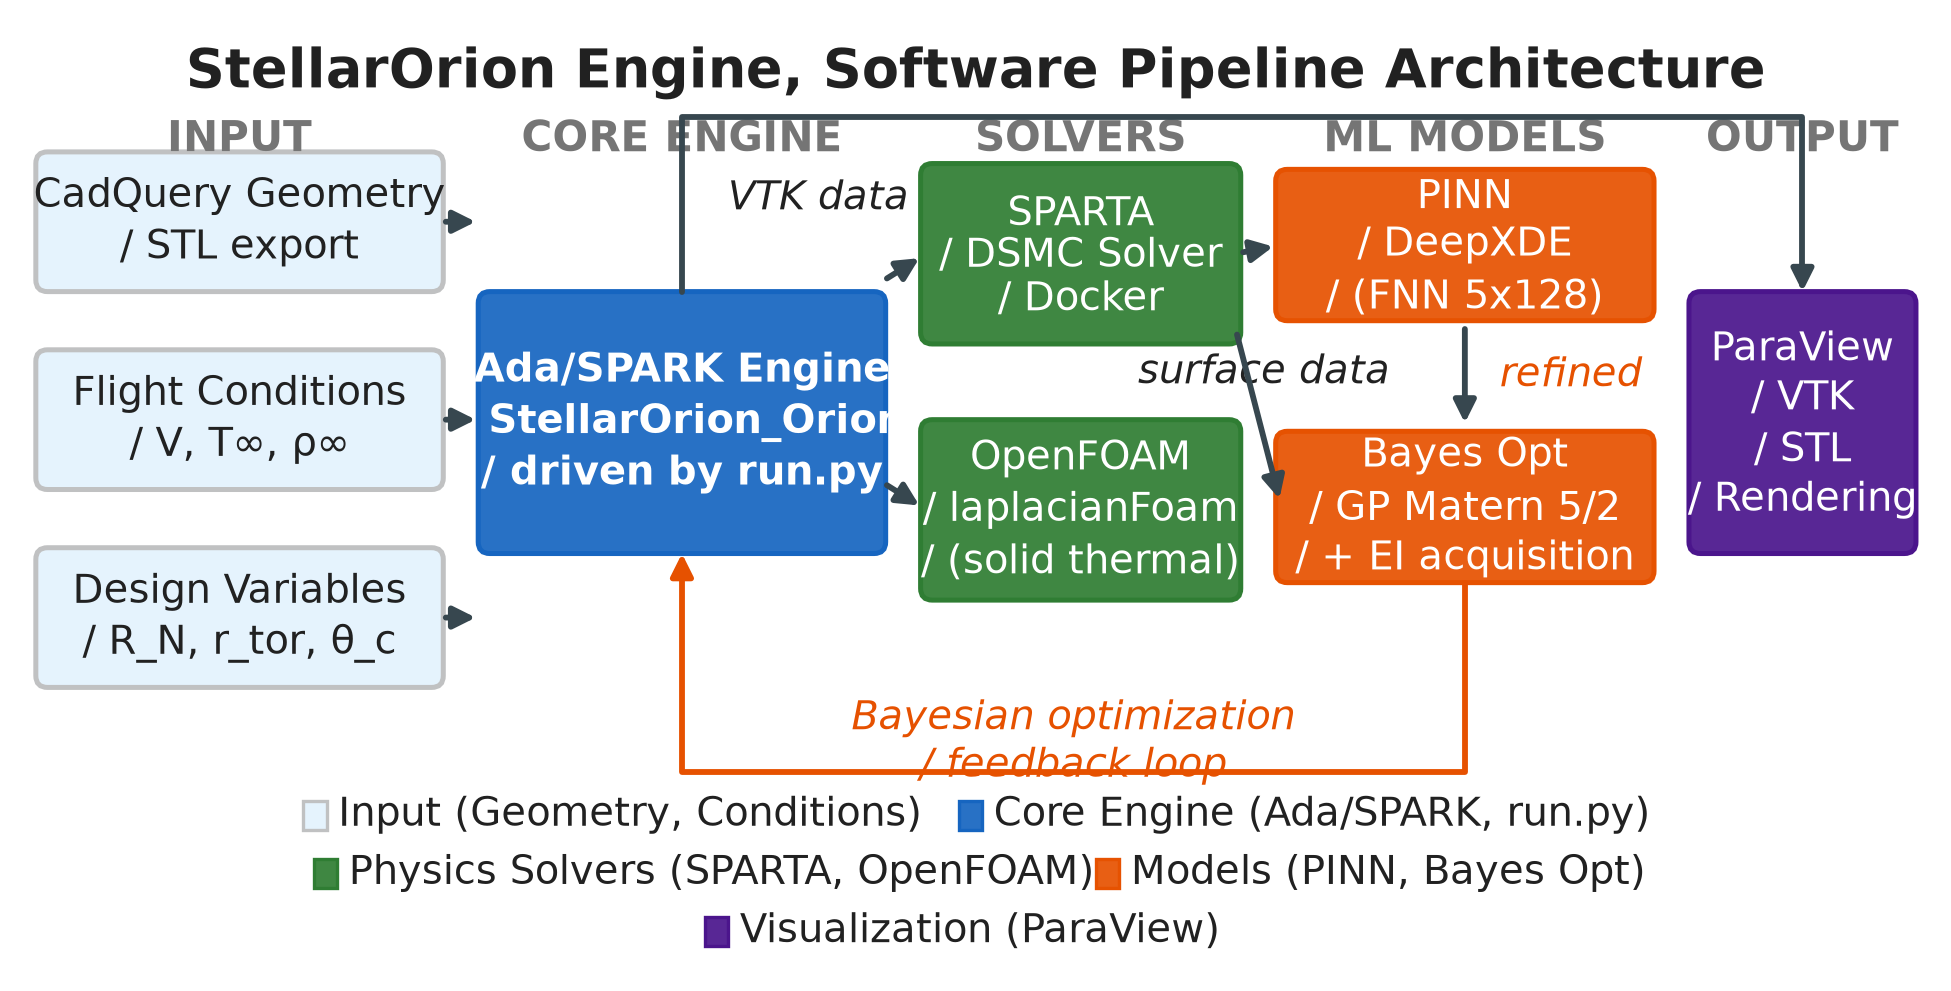
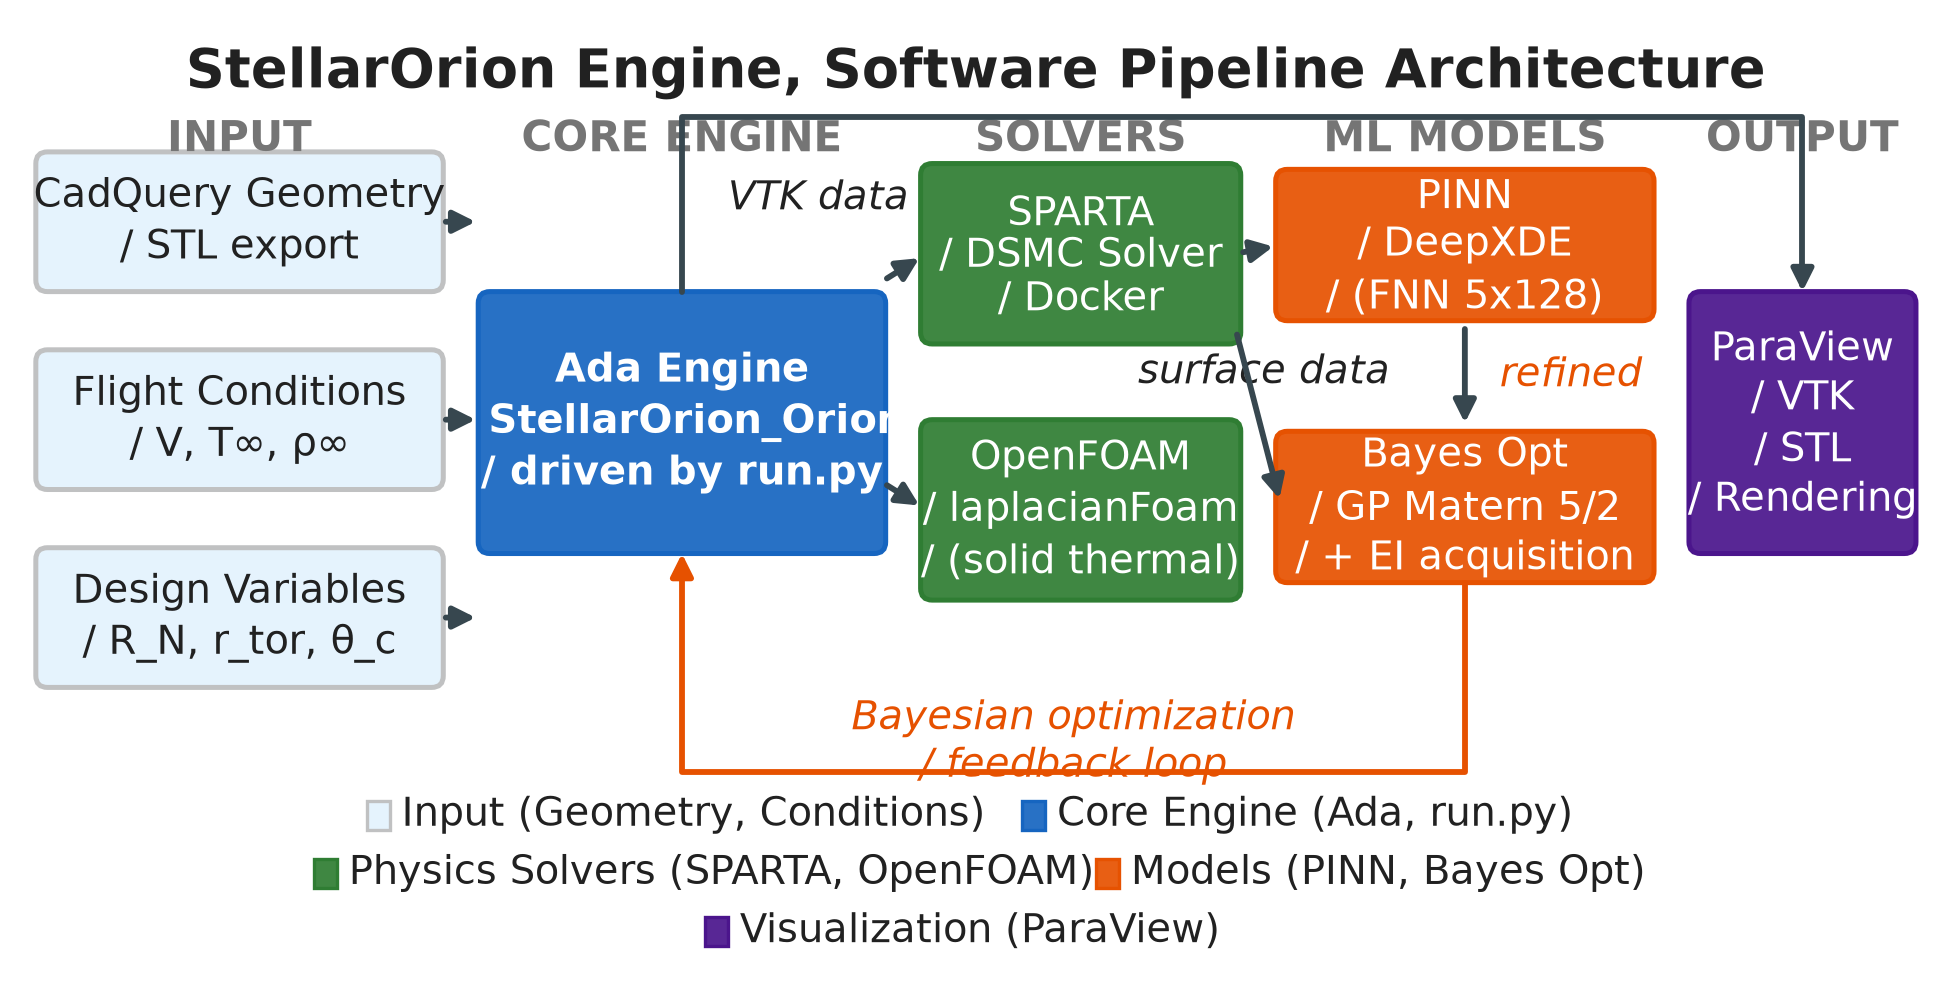
fix(thesis): scrub SPARK mentions and all '--' renderings; sync comparison figure after pixel audits
- ch3: Ada/SPARK -> Ada in build/unit/simulation-engine captions + ActualText; 'steps 1--3' -> 'steps 1 to 3'
- preamble: comment '--' removed
- ch1/ch3/ch4/appendix: CLI flags no longer render literal '--' (option names kept: slice-angle, fnum, doe, validate-only, headless validate parameter list, self-test..validationPINN)
- figures: make_software_pipeline.py + make_methodology_derivation.py relabel 'Ada/SPARK' -> 'Ada'; regenerated
- figures/optimization_comparison.png: figure-level flown legend in blank band, single x-tick per panel, z-stack clear (3 specialist pixel audits: PASS)
- PDF verified: 165 pp, '--'=0, SPARK=0, GNATprove=0, VERDICT CLEAN

Changed region(s): [[0.1538, 0.7871, 0.8611, 0.8476], [0.246, 0.333, 0.4613, 0.3935]]

diff --git a/Lost+Found/ProgressReport/CurrentThesisFinalReport/chapter_03_methodology.tex b/Lost+Found/ProgressReport/CurrentThesisFinalReport/chapter_03_methodology.tex
@@ -88,14 +88,14 @@ Figure~\ref{fig:governing_equations} summarizes this chain.
 
 \subsection{Software Pipeline}
 \label{sec:software_pipeline}
-The StellarOrion engine orchestrates the pipeline in Figure~\ref{fig:software_pipeline}. The Python entry point \texttt{run.py} drives five phases: boot, Python virtual-environment bootstrap, static analysis, Ada/SPARK build of the simulation engine, and launch. The core solver is the Ada/SPARK unit \texttt{StellarOrion\_Orion} in \texttt{src/simulation\_engine/}, which couples the SPARTA DSMC solver and OpenFOAM (Open Source Field Operation and Manipulation) solid-thermal solver, then hands surface fields to the DeepXDE PINN refinement module and to the scikit-learn Bayesian Optimization surrogate (GP Mat\'ern 5/2 with Expected Improvement, Sec.~\ref{sec:ga_opt}). Results are exported as VTK/STL for ParaView rendering and for the validation gate of Chapter~\ref{ch:results}. The recorded campaign of Chapter~\ref{ch:results} applies Bayesian Optimization with a fixed hyper-parameter refit strategy, adopted after the reproducibility finding of Sec.~\ref{sec:surrogate_repro}.
+The StellarOrion engine orchestrates the pipeline in Figure~\ref{fig:software_pipeline}. The Python entry point \texttt{run.py} drives five phases: boot, Python virtual-environment bootstrap, static analysis, Ada build of the simulation engine, and launch. The core solver is the Ada unit \texttt{StellarOrion\_Orion} in \texttt{src/simulation\_engine/}, which couples the SPARTA DSMC solver and OpenFOAM (Open Source Field Operation and Manipulation) solid-thermal solver, then hands surface fields to the DeepXDE PINN refinement module and to the scikit-learn Bayesian Optimization surrogate (GP Mat\'ern 5/2 with Expected Improvement, Sec.~\ref{sec:ga_opt}). Results are exported as VTK/STL for ParaView rendering and for the validation gate of Chapter~\ref{ch:results}. The recorded campaign of Chapter~\ref{ch:results} applies Bayesian Optimization with a fixed hyper-parameter refit strategy, adopted after the reproducibility finding of Sec.~\ref{sec:surrogate_repro}.
 
 \begin{figure}[!htbp]
     \centering
-    \BeginAccSupp{method=escape,ActualText={Architecture diagram of the software pipeline. Input column: CadQuery geometry with STL export, flight conditions with velocity, temperature and density, and design variables. Orchestration column: run.py with boot, environment bootstrap, static analysis, Ada/SPARK build and launch phases. Core engine column: the Ada/SPARK simulation engine. Solver column: SPARTA DSMC in Docker and OpenFOAM solid thermal. Model column: PINN with DeepXDE and the Bayesian Optimization surrogate, a Gaussian Process with Matern 5/2 kernel and Expected Improvement. Output column: ParaView, VTK, STL rendering. An orange feedback loop returns Bayesian Optimization designs to the engine for re-evaluation.}}%
+    \BeginAccSupp{method=escape,ActualText={Architecture diagram of the software pipeline. Input column: CadQuery geometry with STL export, flight conditions with velocity, temperature and density, and design variables. Orchestration column: run.py with boot, environment bootstrap, static analysis, Ada build and launch phases. Core engine column: the Ada simulation engine. Solver column: SPARTA DSMC in Docker and OpenFOAM solid thermal. Model column: PINN with DeepXDE and the Bayesian Optimization surrogate, a Gaussian Process with Matern 5/2 kernel and Expected Improvement. Output column: ParaView, VTK, STL rendering. An orange feedback loop returns Bayesian Optimization designs to the engine for re-evaluation.}}%
 \includegraphics[width=\textwidth]{figures/software_pipeline.png}%
 \EndAccSupp{}%
-    \caption[StellarOrion engine software pipeline: input geometry, flight conditions and design variables $\rightarrow$ \texttt{run.py} orchestration phases $\rightarrow$ Ada/SPARK simulation engine $\rightarrow$ SPARTA DSMC and OpenFOAM solid-thermal solvers with PINN refinement and the Bayesian Optimization surrogate $\rightarrow$ ParaView visualization.]{StellarOrion engine software pipeline: input geometry, flight conditions and design variables $\rightarrow$ \texttt{run.py} orchestration phases $\rightarrow$ Ada/SPARK simulation engine $\rightarrow$ SPARTA DSMC and OpenFOAM solid-thermal solvers with PINN refinement and the Bayesian Optimization surrogate $\rightarrow$ ParaView visualization. The orange feedback loop returns Bayesian Optimization designs from the surrogate to the core engine for re-evaluation.}
+    \caption[StellarOrion engine software pipeline: input geometry, flight conditions and design variables $\rightarrow$ \texttt{run.py} orchestration phases $\rightarrow$ Ada simulation engine $\rightarrow$ SPARTA DSMC and OpenFOAM solid-thermal solvers with PINN refinement and the Bayesian Optimization surrogate $\rightarrow$ ParaView visualization.]{StellarOrion engine software pipeline: input geometry, flight conditions and design variables $\rightarrow$ \texttt{run.py} orchestration phases $\rightarrow$ Ada simulation engine $\rightarrow$ SPARTA DSMC and OpenFOAM solid-thermal solvers with PINN refinement and the Bayesian Optimization surrogate $\rightarrow$ ParaView visualization. The orange feedback loop returns Bayesian Optimization designs from the surrogate to the core engine for re-evaluation.}
     \label{fig:software_pipeline}
 \end{figure}
 
@@ -254,7 +254,7 @@ Freestream conditions match the IRVE-3 reentry trajectory point at 51.8\,km alti
     \item \textbf{Freestream Velocity ($v_{\infty}$):} 3378\,m/s (Mach $\approx$ 10.29 at altitude)
     \item \textbf{Number Density ($n$):} $1.63 \times 10^{22}$\,m$^{-3}$ (from atmospheric density $\rho = 7.851 \times 10^{-4}$\,kg/m$^3$ via $n = \rho N_A / M_{air}$)
     \item \textbf{Freestream Temperature ($T_{\infty}$):} 268.41\,K (atmospheric model, code baseline)
-    \item \textbf{Particle Weighting Factor ($f_{num}$):} $1.5 \times 10^{20}$ (configurable via \texttt{-{}-fnum})
+    \item \textbf{Particle Weighting Factor ($f_{num}$):} $1.5 \times 10^{20}$ (configurable via the \texttt{fnum} option)
 \end{itemize}
 
 \subsubsection*{Gas Model}
@@ -771,7 +771,7 @@ The optimization loop runs six steps:
     \item \textbf{Final Validation:} Re-evaluate the optimal design with SPARTA DSMC, without PINN refinement.
 \end{enumerate}
 
-The engine additionally implements a real-coded Genetic Algorithm (Sec.~\ref{sec:ga_operators}) that evolves a population using the same GP surrogate as fast evaluator. The GA shares steps 1--3, 5 and 6 with the Bayesian loop and replaces step 4 with selection, crossover and mutation.
+The engine additionally implements a real-coded Genetic Algorithm (Sec.~\ref{sec:ga_operators}) that evolves a population using the same GP surrogate as fast evaluator. The GA shares steps 1 to 3, 5 and 6 with the Bayesian loop and replaces step 4 with selection, crossover and mutation.
 
 \subsection{Design Space and Parameters}
 
@@ -805,7 +805,7 @@ where $i$ is the stratum index, $j$ the parameter dimension, $r_{i,j} \sim \math
 Each parameter gets $N$ distinct levels with one sample per level, giving space-filling coverage for small $N$.
 
 \subsubsection*{Central Composite Design (CCD) as Alternative DoE}
-The default Design of Experiments method is the Rotatable Central Composite Design (CCD) described in~\cite{Montgomery2017}, with axial distance $\alpha = (2^d)^{1/4}$ ($\alpha \approx 1.682$ at $d = 3$). For a $d$-dimensional parameter space, CCD constructs $N = 2^d + 2d + 1$ sample points: $2^d$ factorial (corner) points at $\pm 1$ levels, $2d$ axial (star) points at $\pm \alpha$ along each axis, and $1$ center point at the origin. This campaign used $d = 3$ variables (nose radius $R_N$, toroid radius $r_{tor}$, half-cone angle $\theta_c$), giving $N = 8 + 6 + 1 = 15$ points. That 15-point CCD record is separate from the 70-entry Bayesian Optimization history of Sec.~\ref{sec:bo_results}. LHS or CCD is selectable via \texttt{-{}-doe}, with CCD as the default for the optimized IRVE-3 baseline.
+The default Design of Experiments method is the Rotatable Central Composite Design (CCD) described in~\cite{Montgomery2017}, with axial distance $\alpha = (2^d)^{1/4}$ ($\alpha \approx 1.682$ at $d = 3$). For a $d$-dimensional parameter space, CCD constructs $N = 2^d + 2d + 1$ sample points: $2^d$ factorial (corner) points at $\pm 1$ levels, $2d$ axial (star) points at $\pm \alpha$ along each axis, and $1$ center point at the origin. This campaign used $d = 3$ variables (nose radius $R_N$, toroid radius $r_{tor}$, half-cone angle $\theta_c$), giving $N = 8 + 6 + 1 = 15$ points. That 15-point CCD record is separate from the 70-entry Bayesian Optimization history of Sec.~\ref{sec:bo_results}. LHS or CCD is selectable via the \texttt{doe} option, with CCD as the default for the optimized IRVE-3 baseline.
 
 \subsection{Bayesian Optimization (Bayes Opt)}
 

diff --git a/Lost+Found/ProgressReport/CurrentThesisFinalReport/chapter_04_results.tex b/Lost+Found/ProgressReport/CurrentThesisFinalReport/chapter_04_results.tex
@@ -395,8 +395,8 @@ The surrogate $J(\mathbf{x})$, built on closed-form correlations, cannot represe
 \subsection{Gate Protocol}
 The gate runs post-optimization in five legs~\cite{kennedy2000multi}:
 \begin{enumerate}
-    \item \textbf{Preconditions and geometry QA.} The compiled binary, Docker daemon, validation virtual environment, pipeline module and reference CSV are checked, then a fast \texttt{\seqsplit{bin/main -{}-validate-only}} geometry check (seconds-level runtime) runs. Failures report path and remedy; the gate exits with status 1.
-    \item \textbf{DSMC leg.} The round-1 winner is re-simulated with \texttt{\seqsplit{bin/main -{}-validate -{}-headless -{}-nose 2.989050 -{}-tradius 0.103301 -{}-angle 40.483513 -{}-skin scalloped -{}-steps 2200}}, writing to a dedicated directory, never overwriting the baseline reference dataset.
+    \item \textbf{Preconditions and geometry QA.} The compiled binary, Docker daemon, validation virtual environment, pipeline module and reference CSV are checked, then a fast \texttt{bin/main} validate-only geometry check (seconds-level runtime) runs. Failures report path and remedy; the gate exits with status 1.
+    \item \textbf{DSMC leg.} The round-1 winner is re-simulated with \texttt{bin/main} in headless validate mode (nose radius 2.989050, toroid radius 0.103301, half-cone angle 40.483513, skin scalloped, 2200 steps), writing to a dedicated directory, never overwriting the baseline reference dataset.
     \item \textbf{PINN leg.} The PINN refinement pipeline runs on the fresh dataset, producing a unified comparison dataset under the gate directory.
     \item \textbf{Verdict.} The gate passes if and only if $q_{hybrid} \leq Q_{target} = 165.716$\,J/cm$^2$, and records the prediction error $(q_{hybrid} - q_{analytic})/q_{analytic}$.
     \item \textbf{Multi-fidelity correction.} A bounded correction factor $c = \operatorname{clamp}\bigl(q_{hybrid}/\allowbreak q_{analytic},\,\allowbreak 0.5,\,\allowbreak 2.0\bigr)$ applies to the heat-load term of $J(\mathbf{x})$; the optimizer re-runs, producing the round-2 design.

diff --git a/Lost+Found/ProgressReport/CurrentThesisFinalReport/chapter_01_introduction.tex b/Lost+Found/ProgressReport/CurrentThesisFinalReport/chapter_01_introduction.tex
@@ -89,7 +89,7 @@ This research provides aerothermal analysis and survivability optimization of th
 \begin{enumerate}
     \item \textbf{Geometric Representation:} The HIAD structure uses parametric 3D CAD generation via CadQuery. The 6-toroid stack based on the multidisciplinary design analysis and optimization (MDAO) baseline~\cite{rapisarda2023mdao} is the primary geometry, with variable toroid count, cone angle, and nose radius. The ``scalloped'' toroidal surface is treated as rigid and fully inflated to isolate surface-topology effects on the flow.
 
-    \item \textbf{Dimensionality:} Simulations are 2D axisymmetric (via \texttt{-{}-slice-angle}) or full 3D. The 2D mode assumes zero angle of attack ($\alpha = 0^\circ$) to maintain rotational symmetry and raise particle resolution within memory limits; full 3D covers off-axis conditions.
+    \item \textbf{Dimensionality:} Simulations are 2D axisymmetric (via the \texttt{slice-angle} option) or full 3D. The 2D mode assumes zero angle of attack ($\alpha = 0^\circ$) to maintain rotational symmetry and raise particle resolution within memory limits; full 3D covers off-axis conditions.
 
     \item \textbf{Numerical Framework:} Gas dynamics follow the Boltzmann equation, solved by the Direct Simulation Monte Carlo (DSMC) method in the SPARTA (Sandia Parallel Algorithm for Real-Time Application) solver~\cite{plimpton2014sparta}, valid for rarefied and transitional flows where the continuum assumption fails ($Kn > 0.01$).
 

diff --git a/Lost+Found/ProgressReport/CurrentThesisFinalReport/preamble.tex b/Lost+Found/ProgressReport/CurrentThesisFinalReport/preamble.tex
@@ -121,13 +121,13 @@
 \setlength{\dblfloatsep}{8pt plus 2pt minus 2pt}
 % Float packing fractions: LaTeX's defaults (\topfraction 0.7, \textfraction
 % 0.2, \floatpagefraction 0.5) eject a figure + its long caption onto a
-% dedicated FLOAT PAGE whenever the block exceeds 70% of the text height --
+% dedicated FLOAT PAGE whenever the block exceeds 70% of the text height: the
 % text can never share such a page, which is exactly the one-figure-per-page
 % pattern. Allowing floats up to 90% of the page, requiring only 10% prose
 % alongside them, and demanding 90% fill before a dedicated float page makes
 % figures share their page with the surrounding narrative instead.
 % NOTE: these four are MACROS (sizeNN.clo uses \renewcommand), NOT skip
-% registers -- \setlength on them typesets the old value as page-1 garbage
+% registers; \setlength on them typesets the old value as page-1 garbage
 % instead of assigning, so \renewcommand is the only correct interface.
 \renewcommand{\topfraction}{0.9}
 \renewcommand{\bottomfraction}{0.8}

diff --git a/Lost+Found/ProgressReport/CurrentThesisFinalReport/figures/make_methodology_derivation.py b/Lost+Found/ProgressReport/CurrentThesisFinalReport/figures/make_methodology_derivation.py
@@ -74,8 +74,8 @@ DEVIATIONS FROM THE ORIGINAL ARTWORK
        (THEORY T2).
     4. Row 3 columns 3-4 and row 4 columns 3-4 replace the retired MoP and
        Python-engine labels with the current pipeline terms (Gaussian
-       Process Surrogate, Bayesian Optimization, scikit-learn GP, Ada/SPARK
-       core driven by run.py), matching chapter_03_methodology.tex sections
+       Process Surrogate, Bayesian Optimization, scikit-learn GP, Ada core
+       driven by run.py), matching chapter_03_methodology.tex sections
        sec:axioms and sec:software_pipeline.
 """
 
@@ -212,7 +212,7 @@ ROWS = (
             ("SPARTA Docker", "Container", "5-species air"),
             ("DeepXDE", "PINN Library", "Stage 1 +", "Stage 2"),
             ("scikit-learn", "GP (Matern 5/2)", "LHS + EI"),
-            ("StellarOrion", "Ada/SPARK core", "run.py", "orchestrator"),
+            ("StellarOrion", "Ada core", "run.py", "orchestrator"),
         ),
     },
 )

diff --git a/Lost+Found/ProgressReport/CurrentThesisFinalReport/figures/make_software_pipeline.py b/Lost+Found/ProgressReport/CurrentThesisFinalReport/figures/make_software_pipeline.py
@@ -140,7 +140,7 @@ INPUT_TEXTS = (
     "Flight Conditions\n/ V, T∞, ρ∞",
     "Design Variables\n/ R_N, r_tor, θ_c",
 )
-ENGINE_TEXT = "Ada/SPARK Engine\n/ StellarOrion_Orion\n/ driven by run.py"
+ENGINE_TEXT = "Ada Engine\n/ StellarOrion_Orion\n/ driven by run.py"
 SOLVER_TEXTS = (
     "SPARTA\n/ DSMC Solver\n/ Docker",
     "OpenFOAM\n/ laplacianFoam\n/ (solid thermal)",
@@ -158,7 +158,7 @@ ARROW_LABEL_FEEDBACK = "Bayesian optimization\n/ feedback loop"
 
 LEGEND_ROW1 = (
     ("Input (Geometry, Conditions)", INPUT_FILL, INPUT_EDGE),
-    ("Core Engine (Ada/SPARK, run.py)", ENGINE_FILL, ENGINE_EDGE),
+    ("Core Engine (Ada, run.py)", ENGINE_FILL, ENGINE_EDGE),
 )
 LEGEND_ROW2 = (
     ("Physics Solvers (SPARTA, OpenFOAM)", SOLVER_FILL, SOLVER_EDGE),

diff --git a/Lost+Found/ProgressReport/CurrentThesisFinalReport/appendix.tex b/Lost+Found/ProgressReport/CurrentThesisFinalReport/appendix.tex
@@ -191,7 +191,7 @@ Packages:
 
 \section{Command-Line Interface (CLI) Modes}
 
-The binary dispatches a range of command-line flags, including \texttt{-{}-self-test}, \texttt{\seqsplit{-{}-compareNoses}}, \mbox{\texttt{-{}-compareCalibrate}}, \texttt{-{}-optimize}, \texttt{\seqsplit{-{}-validate}}, \texttt{\seqsplit{-{}-gridIndepTest}} and \mbox{\texttt{-{}-validationPINN}}.
+The binary dispatches a range of command-line options, including \texttt{self-test}, \texttt{compareNoses}, \texttt{compareCalibrate}, \texttt{optimize}, \texttt{validate}, \texttt{gridIndepTest} and \texttt{validationPINN}.
 
 \chapter{IRVE-3 Validation Data Summary}
 \label{app:validation_data}
